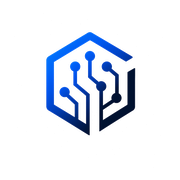
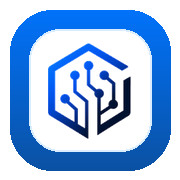
polish mobile crm and login intro

diff --git a/frontend/app/globals.css b/frontend/app/globals.css
@@ -746,6 +746,37 @@ h1, h2, h3, h4, .font-display {
   will-change: background-position;
 }
 
+.intro-scan {
+  position: absolute;
+  left: 50%;
+  top: 50%;
+  width: min(72vw, 860px);
+  height: min(72vw, 860px);
+  transform: translate(-50%, -50%);
+  border-radius: 999px;
+  background: conic-gradient(from 0deg, transparent 0 72%, rgba(11,127,232,.22), rgba(5,150,105,.18), transparent 86% 100%);
+  filter: blur(.2px);
+  opacity: .78;
+  animation: intro-scan-spin 6.5s linear infinite;
+  -webkit-mask: radial-gradient(circle, transparent 0 31%, #000 32% 33%, transparent 34% 100%);
+  mask: radial-gradient(circle, transparent 0 31%, #000 32% 33%, transparent 34% 100%);
+}
+
+.intro-ring {
+  position: absolute;
+  left: 50%;
+  top: 50%;
+  border-radius: 999px;
+  border: 1px solid rgba(11,127,232,.16);
+  transform: translate(-50%, -50%) scale(.86);
+  opacity: 0;
+  animation: intro-ring-wave 3.2s ease-out infinite;
+}
+
+.intro-ring--one { width: 260px; height: 260px; animation-delay: 0s; }
+.intro-ring--two { width: 440px; height: 440px; animation-delay: .72s; border-color: rgba(5,150,105,.14); }
+.intro-ring--three { width: 640px; height: 640px; animation-delay: 1.42s; border-color: rgba(245,158,11,.14); }
+
 .intro-line {
   position: absolute;
   left: 50%;
@@ -762,6 +793,92 @@ h1, h2, h3, h4, .font-display {
 .intro-line--one { transform: rotate(0deg) translateX(-6vw); }
 .intro-line--two { transform: rotate(132deg) translateX(-6vw); background: linear-gradient(90deg, transparent, rgba(5,150,105,.75), transparent); }
 .intro-line--three { transform: rotate(226deg) translateX(-6vw); background: linear-gradient(90deg, transparent, rgba(245,158,11,.75), transparent); }
+
+.intro-route {
+  position: absolute;
+  left: 50%;
+  top: 50%;
+  width: min(44vw, 560px);
+  height: min(18vw, 210px);
+  border-radius: 999px;
+  border: 1px solid rgba(11,127,232,.2);
+  border-left-color: transparent;
+  border-bottom-color: transparent;
+  transform-origin: left center;
+  opacity: .72;
+}
+
+.intro-route::after {
+  content: "";
+  position: absolute;
+  right: 13%;
+  top: -4px;
+  width: 9px;
+  height: 9px;
+  border-radius: 999px;
+  background: #fff;
+  box-shadow: 0 0 0 5px rgba(11,127,232,.16), 0 0 22px rgba(11,127,232,.55);
+  animation: intro-route-packet 2.4s cubic-bezier(.16, 1, .3, 1) infinite;
+}
+
+.intro-route--one { transform: rotate(-8deg) translate(-8%, -52%); }
+.intro-route--two { transform: rotate(126deg) translate(-8%, -52%); border-color: rgba(5,150,105,.2); border-left-color: transparent; border-bottom-color: transparent; }
+.intro-route--two::after { box-shadow: 0 0 0 5px rgba(5,150,105,.16), 0 0 22px rgba(5,150,105,.55); animation-delay: .42s; }
+.intro-route--three { transform: rotate(236deg) translate(-8%, -52%); border-color: rgba(245,158,11,.2); border-left-color: transparent; border-bottom-color: transparent; }
+.intro-route--three::after { box-shadow: 0 0 0 5px rgba(245,158,11,.16), 0 0 22px rgba(245,158,11,.55); animation-delay: .84s; }
+
+.intro-node,
+.intro-metric {
+  position: absolute;
+  z-index: 1;
+  display: grid;
+  gap: 2px;
+  border: 1px solid rgba(15,23,42,.08);
+  background: rgba(255,255,255,.74);
+  box-shadow: 0 24px 70px -42px rgba(11,79,158,.65), inset 0 1px 0 rgba(255,255,255,.85);
+  backdrop-filter: blur(10px);
+  -webkit-backdrop-filter: blur(10px);
+}
+
+.intro-node {
+  min-width: 96px;
+  border-radius: 18px;
+  padding: 10px 12px;
+  animation: intro-node-float 4.8s ease-in-out infinite;
+}
+
+.intro-node b,
+.intro-metric b {
+  font-family: var(--font-display), sans-serif;
+  color: var(--text);
+  line-height: 1;
+}
+
+.intro-node small,
+.intro-metric small {
+  color: var(--text-faint);
+  font-size: 11px;
+  font-weight: 800;
+  text-transform: uppercase;
+}
+
+.intro-node--site { left: 10%; top: 24%; border-color: rgba(11,127,232,.2); }
+.intro-node--lead { right: 12%; top: 24%; border-color: rgba(5,150,105,.2); animation-delay: .4s; }
+.intro-node--proposal { left: 14%; bottom: 25%; border-color: rgba(245,158,11,.22); animation-delay: .8s; }
+.intro-node--project { right: 13%; bottom: 23%; border-color: rgba(11,127,232,.2); animation-delay: 1.2s; }
+
+.intro-metric {
+  border-radius: 20px;
+  padding: 12px 14px;
+  animation: intro-metric-pop 3.6s ease-in-out infinite;
+}
+
+.intro-metric b {
+  font-size: 24px;
+}
+
+.intro-metric--one { left: 18%; top: 12%; }
+.intro-metric--two { right: 17%; bottom: 12%; animation-delay: 1.1s; }
 
 .intro-particle {
   position: absolute;
@@ -930,6 +1047,33 @@ h1, h2, h3, h4, .font-display {
   to { background-position: 220px 0, 0 220px; }
 }
 
+@keyframes intro-scan-spin {
+  to { transform: translate(-50%, -50%) rotate(1turn); }
+}
+
+@keyframes intro-ring-wave {
+  0% { opacity: 0; transform: translate(-50%, -50%) scale(.72); }
+  18% { opacity: .88; }
+  100% { opacity: 0; transform: translate(-50%, -50%) scale(1.18); }
+}
+
+@keyframes intro-route-packet {
+  0% { transform: translateX(-220%) scale(.65); opacity: 0; }
+  16% { opacity: 1; }
+  76% { transform: translateX(60%) scale(1.05); opacity: .95; }
+  100% { transform: translateX(130%) scale(.75); opacity: 0; }
+}
+
+@keyframes intro-node-float {
+  0%, 100% { transform: translateY(0); }
+  50% { transform: translateY(-9px); }
+}
+
+@keyframes intro-metric-pop {
+  0%, 100% { transform: translateY(0) scale(1); opacity: .72; }
+  45% { transform: translateY(-8px) scale(1.04); opacity: 1; }
+}
+
 @keyframes intro-particle-flow {
   0% { transform: translate(var(--x), var(--y)) scale(.5); opacity: 0; }
   16% { opacity: 1; }
@@ -958,6 +1102,11 @@ h1, h2, h3, h4, .font-display {
   .intro-particle,
   .intro-progress,
   .intro-line,
+  .intro-ring,
+  .intro-route::after,
+  .intro-scan,
+  .intro-node,
+  .intro-metric,
   .radar-sweep,
   .signal-packet,
   .route-runner,
@@ -987,6 +1136,27 @@ h1, h2, h3, h4, .font-display {
     justify-content: center;
     gap: 14px;
     padding: 64px 16px 28px;
+  }
+
+  .intro-node,
+  .intro-metric {
+    display: none;
+  }
+
+  .intro-scan {
+    width: 520px;
+    height: 520px;
+    opacity: .58;
+  }
+
+  .intro-ring--one { width: 180px; height: 180px; }
+  .intro-ring--two { width: 300px; height: 300px; }
+  .intro-ring--three { width: 420px; height: 420px; }
+
+  .intro-route {
+    width: 340px;
+    height: 120px;
+    opacity: .48;
   }
 
   .intro-core {
@@ -1058,6 +1228,10 @@ h1, h2, h3, h4, .font-display {
     max-width: calc(100vw - 28px);
     padding: 9px 12px;
     background: rgba(255,255,255,.9);
+  }
+
+  .money-rain-canvas {
+    opacity: .58;
   }
 }
 

diff --git a/frontend/app/login/page.tsx b/frontend/app/login/page.tsx
@@ -308,9 +308,32 @@ function LoginIntro({ onDone }: { onDone: () => void }) {
   return (
     <section className="login-intro">
       <div className="intro-map" aria-hidden="true">
+        <span className="intro-scan" />
+        <span className="intro-ring intro-ring--one" />
+        <span className="intro-ring intro-ring--two" />
+        <span className="intro-ring intro-ring--three" />
         <span className="intro-line intro-line--one" />
         <span className="intro-line intro-line--two" />
         <span className="intro-line intro-line--three" />
+        <span className="intro-route intro-route--one" />
+        <span className="intro-route intro-route--two" />
+        <span className="intro-route intro-route--three" />
+        <span className="intro-node intro-node--site">
+          <b>Сайт</b>
+          <small>форма</small>
+        </span>
+        <span className="intro-node intro-node--lead">
+          <b>Лид</b>
+          <small>owner</small>
+        </span>
+        <span className="intro-node intro-node--proposal">
+          <b>КП</b>
+          <small>PDF</small>
+        </span>
+        <span className="intro-node intro-node--project">
+          <b>Проект</b>
+          <small>$ forecast</small>
+        </span>
         {INTRO_PARTICLES.map((p) => (
           <span
             key={p.id}
@@ -326,6 +349,14 @@ function LoginIntro({ onDone }: { onDone: () => void }) {
             }
           />
         ))}
+        <span className="intro-metric intro-metric--one">
+          <b>+1</b>
+          <small>новая заявка</small>
+        </span>
+        <span className="intro-metric intro-metric--two">
+          <b>94%</b>
+          <small>маршрут собран</small>
+        </span>
       </div>
       <div className="intro-core">
         <Image src="/logo-light.png" alt="AI Solution" width={96} height={96} className="h-20 w-20 object-contain" priority />

diff --git a/frontend/app/leads/page.tsx b/frontend/app/leads/page.tsx
@@ -524,13 +524,13 @@ export default function LeadsPage() {
         </p>
       )}
 
-      <div className="mb-4 rounded-2xl border border-border bg-surface p-4">
+      <div className="sticky top-3 z-20 mb-4 rounded-2xl border border-border bg-surface/95 p-3 shadow-sm backdrop-blur lg:static lg:p-4">
         <div className="flex flex-col gap-3 lg:flex-row lg:items-center lg:justify-between">
           <div>
-            <p className="font-display text-lg font-semibold text-ink">
+            <p className="font-display text-base font-semibold text-ink sm:text-lg">
               {filter === "archive" ? "Архив лидов" : "Рабочая очередь"}
             </p>
-            <p className="text-sm text-ink-dim">
+            <p className="text-xs leading-5 text-ink-dim sm:text-sm">
               {filter === "archive"
                 ? `${leads.length} в архиве · сначала новые`
                 : `${activeCount} в работе · ${queueCount} без ответственного · сначала новые`}
@@ -555,12 +555,12 @@ export default function LeadsPage() {
             </button>
           </div>
         </div>
-        <div className="mt-4 flex flex-wrap gap-2">
+        <div className="mt-3 flex gap-2 overflow-x-auto pb-1 lg:flex-wrap lg:overflow-visible lg:pb-0">
           {FILTERS.map((item) => (
             <button
               key={item.key}
               onClick={() => setFilter(item.key)}
-              className={`h-10 rounded-lg px-4 text-sm font-semibold transition ${
+              className={`h-9 shrink-0 rounded-lg px-3 text-xs font-semibold transition sm:h-10 sm:px-4 sm:text-sm ${
                 filter === item.key ? "bg-accent text-white" : "bg-bg text-ink-dim hover:text-ink"
               }`}
             >
@@ -569,7 +569,7 @@ export default function LeadsPage() {
           ))}
           <button
             onClick={() => setFilter("archive")}
-            className={`h-10 rounded-lg px-4 text-sm font-semibold transition ${
+            className={`h-9 shrink-0 rounded-lg px-3 text-xs font-semibold transition sm:h-10 sm:px-4 sm:text-sm ${
               filter === "archive" ? "bg-accent text-white" : "bg-bg text-ink-dim hover:text-ink"
             }`}
           >
@@ -595,7 +595,7 @@ export default function LeadsPage() {
               <Link
                 key={lead.id}
                 href={`/leads/${lead.id}`}
-                className="grid gap-3 px-4 py-3 transition hover:bg-accent-soft/45 lg:grid-cols-[1.5fr_1fr_0.8fr_0.8fr_auto] lg:items-center"
+                className="grid gap-2 px-3 py-3 transition hover:bg-accent-soft/45 sm:px-4 lg:grid-cols-[1.5fr_1fr_0.8fr_0.8fr_auto] lg:gap-3 lg:items-center"
               >
                 <div className="min-w-0">
                   <div className="mb-1 flex flex-wrap items-center gap-2">
@@ -611,14 +611,16 @@ export default function LeadsPage() {
                   <p className="truncate">{lead.phone || lead.email || "Контакта нет"}</p>
                   {lead.message && <p className="truncate text-xs text-ink-faint">{lead.message}</p>}
                 </div>
-                <div>
-                  <Badge label={STATUS_LABEL[lead.status] ?? lead.status} tone={STATUS_TONE[lead.status] ?? "neutral"} />
+                <div className="flex min-w-0 items-center justify-between gap-2 lg:contents">
+                  <div>
+                    <Badge label={STATUS_LABEL[lead.status] ?? lead.status} tone={STATUS_TONE[lead.status] ?? "neutral"} />
+                  </div>
+                  <p className="min-w-0 flex-1 truncate text-right text-xs font-medium text-ink-dim lg:text-left lg:text-sm">{owner}</p>
+                  <span className="inline-flex shrink-0 items-center justify-end gap-1 text-xs font-semibold text-accent-strong lg:gap-2 lg:text-sm">
+                    Открыть
+                    <ArrowRight size={15} />
+                  </span>
                 </div>
-                <p className="truncate text-sm font-medium text-ink-dim">{owner}</p>
-                <span className="inline-flex items-center justify-end gap-2 text-sm font-semibold text-accent-strong">
-                  Открыть
-                  <ArrowRight size={16} />
-                </span>
               </Link>
             );
           })}

diff --git a/frontend/app/leads/[id]/page.tsx b/frontend/app/leads/[id]/page.tsx
@@ -217,8 +217,8 @@ export default function LeadDetailPage() {
         </p>
       )}
       {lead && (
-        <div className="grid gap-5 lg:grid-cols-[1fr_340px]">
-          <section className="rounded-2xl border border-border bg-surface p-5">
+        <div className="grid gap-4 lg:grid-cols-[1fr_340px] lg:gap-5">
+          <section className="rounded-2xl border border-border bg-surface p-4 sm:p-5">
             <div className="mb-5 flex flex-wrap items-center gap-2">
               <Badge label={STATUS_LABEL[lead.status] ?? lead.status} tone={STATUS_TONE[lead.status] ?? "neutral"} />
               <Badge label={owner} tone={lead.owner_id ? "accent" : "spark"} />
@@ -238,7 +238,7 @@ export default function LeadDetailPage() {
           </section>
 
           <aside className="space-y-4">
-            <section className="rounded-2xl border border-border bg-surface p-5">
+            <section className="rounded-2xl border border-border bg-surface p-4 sm:p-5">
               <h2 className="font-display text-lg font-semibold text-ink">Статус и владелец</h2>
               <div className="mt-3 grid gap-3">
                 <Field label="Статус">
@@ -263,9 +263,9 @@ export default function LeadDetailPage() {
               </div>
             </section>
 
-            <section className="rounded-2xl border border-border bg-surface p-5">
+            <section className="rounded-2xl border border-border bg-surface p-4 sm:p-5">
               <h2 className="font-display text-lg font-semibold text-ink">КП и сумма</h2>
-              <div className="mt-3 grid grid-cols-2 gap-3">
+              <div className="mt-3 grid gap-3 sm:grid-cols-2">
                 <Field label="Мин"><input inputMode="decimal" value={form.expected_amount_min} onChange={(e) => setForm({ ...form, expected_amount_min: e.target.value })} className="field" /></Field>
                 <Field label="Сред"><input inputMode="decimal" value={form.expected_amount_mid} onChange={(e) => setForm({ ...form, expected_amount_mid: e.target.value })} className="field" /></Field>
                 <Field label="Макс"><input inputMode="decimal" value={form.expected_amount_max} onChange={(e) => setForm({ ...form, expected_amount_max: e.target.value })} className="field" /></Field>